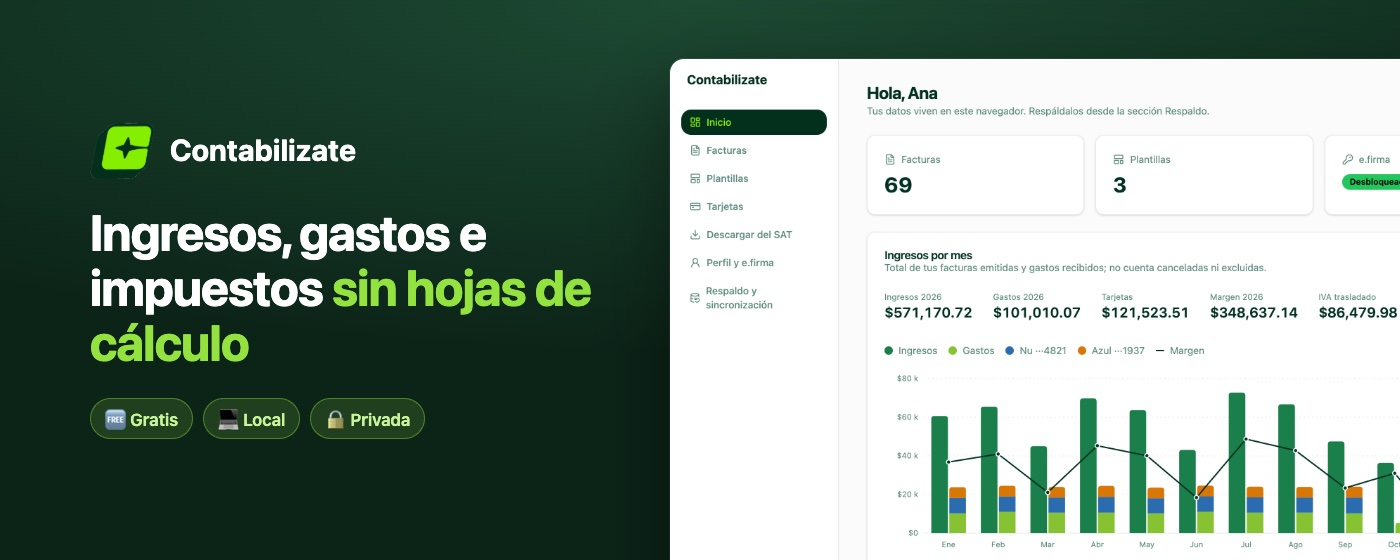
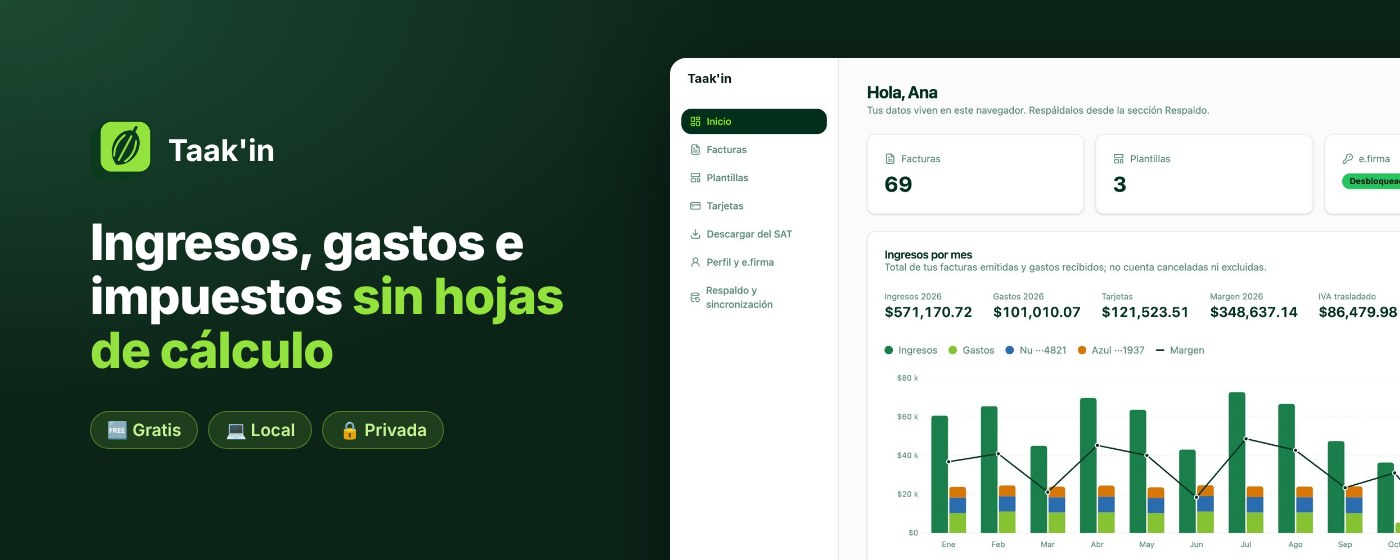
docs: landing con la identidad de Taak'in
- Logo nuevo: mazorca de cacao (moneda de los mayas) con la paleta verde;
  se usa en la landing, la ficha de la tienda y el ícono de la extensión.
- Capturas y GIF de demostración muestran el nombre Taak'in.
- Imagen para redes (og.jpg) regenerada.
- Nueva sección "¿Por qué Taak'in?" con el significado del nombre.

Claude-Session: https://claude.ai/code/session_01DrR3mgmDRsTa5mT1e1ThWn

diff --git a/docs/index.html b/docs/index.html
@@ -19,7 +19,7 @@
 </head>
 <body>
   <header class="nav">
-    <a class="brand" href="#"><img src="img/logo.png" alt="" width="36" height="33"> Taak'in</a>
+    <a class="brand" href="#"><img src="img/logo.png" alt="" width="36" height="35"> Taak'in</a>
     <nav>
       <a href="#demo">Demo</a>
       <a href="#funciones">Funciones</a>
@@ -149,7 +149,7 @@
 
   <section id="privacidad" class="privacy">
     <div class="wrap">
-      <img src="img/logo.png" alt="" width="72" height="65">
+      <img src="img/logo.png" alt="" width="72" height="71">
       <h2 class="section-title">Tus datos son <span class="accent">tuyos</span></h2>
       <p class="lead">Taak'in no tiene servidores. Tus facturas, tus estados de cuenta y tu e.firma nunca llegan a nosotros ni a nadie más.</p>
       <div class="cards">
@@ -159,6 +159,19 @@
         <div class="card"><b>🔑 e.firma cifrada</b><p>Se guarda cifrada con su propia contraseña.</p></div>
         <div class="card"><b>🙈 Montos ocultos</b><p>Ábrela con alguien al lado sin enseñar tus números.</p></div>
         <div class="card"><b>🧑💻 Código abierto</b><p>Revisa exactamente qué hace en <a href="https://github.com/rigo9412/contabilizate-extension">GitHub</a>.</p></div>
+      </div>
+    </div>
+  </section>
+
+  <section id="nombre" class="name">
+    <div class="wrap">
+      <img src="img/logo.png" alt="" width="96" height="94">
+      <div>
+        <span class="tag">El nombre</span>
+        <h2>¿Por qué <span class="accent">Taak'in</span>?</h2>
+        <p>En maya yucateco, <b>taak'in</b> significa <b>dinero</b>. Para los mayas, las semillas de cacao también eran
+          moneda: con ellas se pagaba en los mercados. Por eso el logo es una mazorca de cacao.</p>
+        <p>Una herramienta hecha en México para entender tu dinero y cumplir con el SAT, con un nombre de aquí.</p>
       </div>
     </div>
   </section>
@@ -181,7 +194,7 @@
 
   <footer>
     <div class="wrap">
-      <span><img src="img/logo.png" alt="" width="22" height="20"> Taak'in</span>
+      <span><img src="img/logo.png" alt="" width="22" height="22"> Taak'in</span>
       <span class="muted">Proyecto independiente, no afiliado al SAT.</span>
       <span><a href="privacy.html">Privacidad</a> · <a href="https://github.com/rigo9412/contabilizate-extension">GitHub</a></span>
     </div>

diff --git a/docs/landing.css b/docs/landing.css
@@ -117,6 +117,14 @@ code { background: rgba(255, 255, 255, 0.08); padding: 2px 6px; border-radius: 6
 /* Más funciones */
 .more { display: grid; grid-template-columns: repeat(3, 1fr); gap: 16px; margin-top: 90px; }
 
+/* El nombre */
+.name { padding: 100px 0; border-top: 1px solid var(--line); }
+.name .wrap { display: flex; align-items: center; gap: 48px; max-width: 860px; }
+.name img { flex-shrink: 0; filter: drop-shadow(0 20px 40px rgba(147, 226, 63, 0.2)); }
+.name h2 { font-size: clamp(1.8rem, 4vw, 2.5rem); margin-top: 16px; }
+.name p { color: var(--muted); margin: 16px 0 0; }
+.name p b { color: var(--fg); }
+
 /* Instalación */
 .install { background: var(--bg-2); padding: 100px 0; text-align: center; border-top: 1px solid var(--line); }
 .steps { list-style: none; padding: 0; margin: 40px auto; max-width: 680px; text-align: left; display: grid; gap: 14px; }
@@ -140,7 +148,8 @@ footer span { display: inline-flex; align-items: center; gap: 8px; }
   .nav nav a:not(.nav-cta) { display: none; }
   .hero { padding-top: 56px; }
   .cards { grid-template-columns: 1fr; }
-  .features, .privacy, .install, .demo { padding: 72px 0; }
+  .features, .privacy, .install, .demo, .name { padding: 72px 0; }
+  .name .wrap { flex-direction: column; text-align: center; gap: 24px; }
   footer .wrap { flex-direction: column; text-align: center; }
 }
 

diff --git a/docs/privacy.html b/docs/privacy.html
@@ -8,7 +8,7 @@
   <link rel="stylesheet" href="landing.css">
 </head>
 <body>
-  <header class="nav"><a class="brand" href="./"><img src="img/logo.png" alt="" width="36" height="33"> Taak'in</a></header>
+  <header class="nav"><a class="brand" href="./"><img src="img/logo.png" alt="" width="36" height="35"> Taak'in</a></header>
   <main class="doc">
     <h1>Política de privacidad de Taak'in</h1>
     <p class="muted">Última actualización: 8 de octubre de 2026</p>
